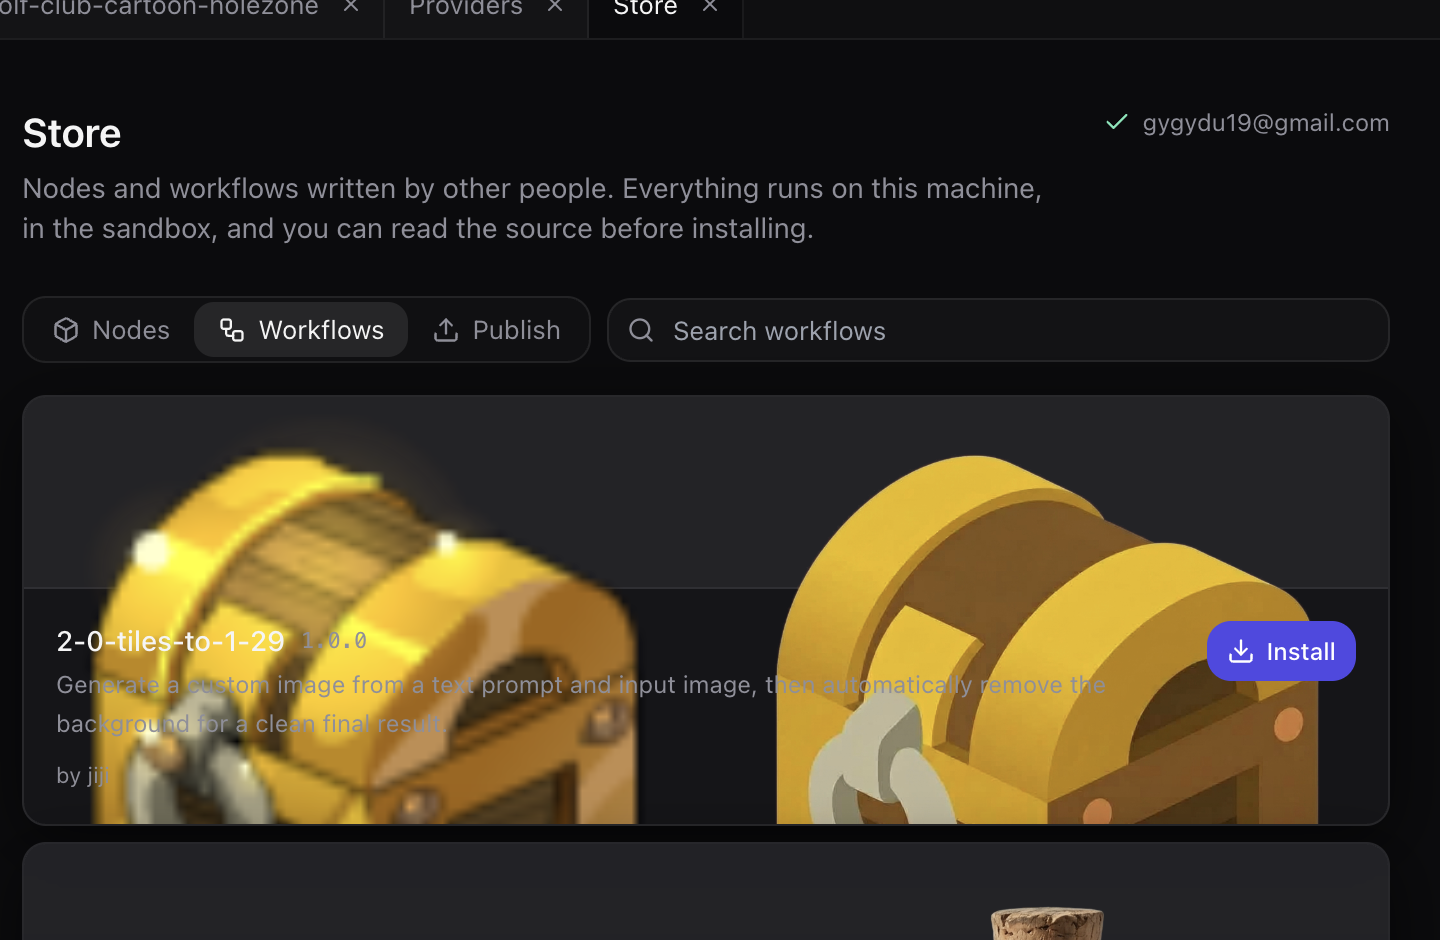
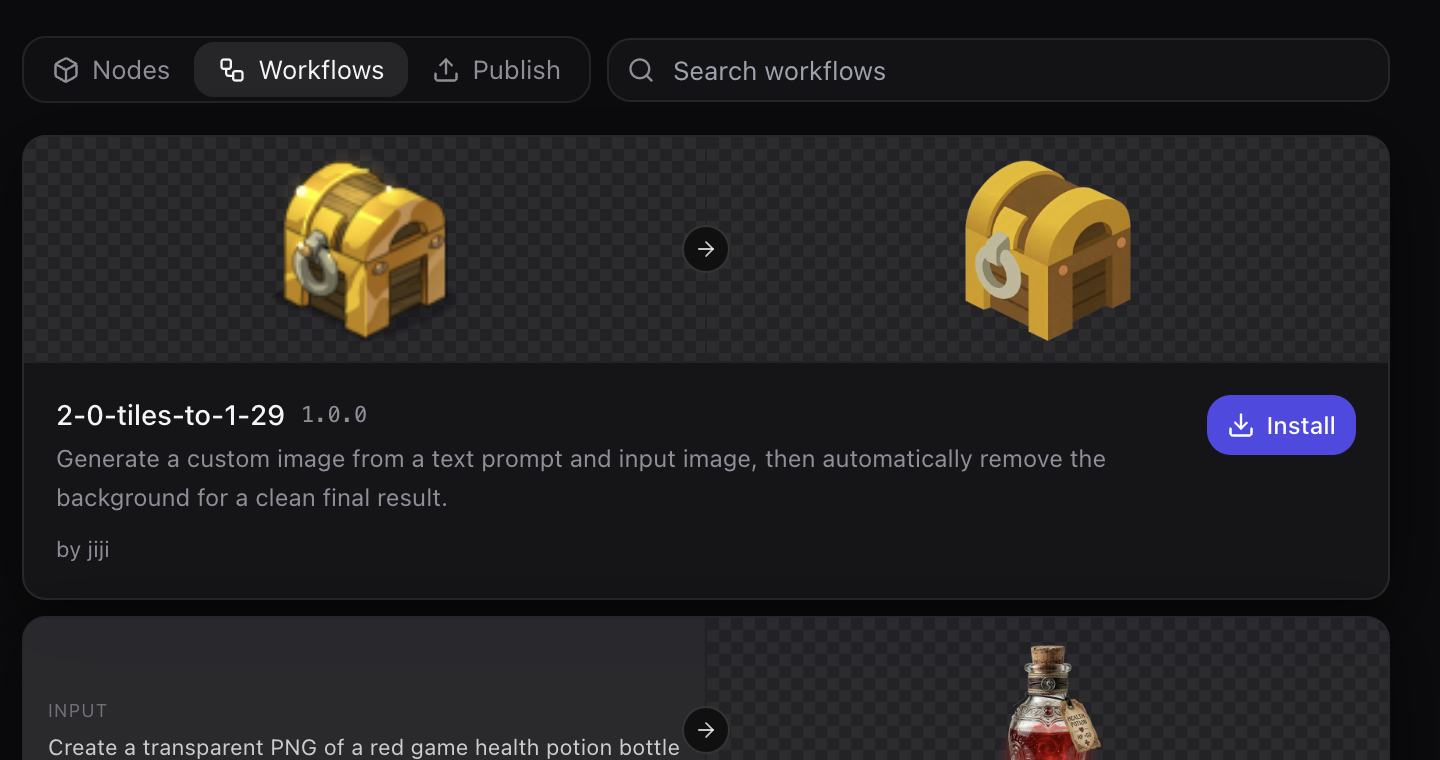
Add the store to the landing, and let one thumbnail serve both shells
A fifth section, because the store answers the question the others leave open:
where do I start. Each listing shows what went in and what came out, since a
name and a description do not tell you whether a workflow does what you want.

The thumbnail that draws those pairs now takes the shape it actually reads
rather than the web app's full preview type, so the desktop can call it instead
of keeping a copy. It had one, and the copy had drifted on the exact point this
file warns about two lines further down: a bare <img> in a grid row with no
definite height takes its intrinsic size. Measured in the running app — a 96
point container holding a 349 point image, overflowing a card with no clipping,
so the title and the description were being drawn on top of the picture. On a
bright preview they were unreadable.

diff --git a/src/components/WorkflowThumb.tsx b/src/components/WorkflowThumb.tsx
@@ -3,7 +3,24 @@
 import { ArrowRight, ImageOff } from "lucide-react"
 import { cn } from "@/lib/utils"
 import { mediaUrl } from "@/lib/api"
-import type { WorkflowPreview } from "@/lib/api"
+
+// Ce que cette vignette lit, et rien de plus.
+//
+// Déclaré ici plutôt que repris de `WorkflowPreview` pour que le desktop puisse
+// l'appeler avec le sien : les deux formes portent les mêmes champs, elles
+// diffèrent seulement par ce que la vignette n'utilise pas. Le desktop en avait
+// donc écrit une deuxième copie — et cette copie a dérivé exactement là où ce
+// fichier avertit deux lignes plus bas, dans `ImagePane` : sans hauteur de
+// rangée définie, l'image reprend sa taille intrinsèque, sort de la carte et se
+// pose sur le titre.
+export type ThumbPreview = {
+  input_kind: "text" | "image" | "none"
+  output_kind: "text" | "image" | "none"
+  input_text?: string
+  input_image?: string
+  output_text?: string
+  output_image?: string
+}
 
 // A workflow's thumbnail is one real pair from a finished run: what went in on
 // the left, what came out on the right. Publishing requires a complete run, so
@@ -63,7 +80,7 @@ function Pane({
   )
 }
 
-export function hasPreview(preview?: WorkflowPreview | null): preview is WorkflowPreview {
+export function hasPreview(preview?: ThumbPreview | null): preview is ThumbPreview {
   return Boolean(preview && (preview.input_kind !== "none" || preview.output_kind !== "none"))
 }
 
@@ -72,7 +89,7 @@ export function WorkflowThumb({
   className,
   fallback,
 }: {
-  preview?: WorkflowPreview | null
+  preview?: ThumbPreview | null
   className?: string
   fallback?: React.ReactNode
 }) {

diff --git a/src/components/FeatureSections.tsx b/src/components/FeatureSections.tsx
@@ -49,6 +49,17 @@ const FEATURES: Feature[] = [
     shot: { src: "/shots/agent.png", alt: "The agent panel, running the CLI installed on this machine", width: 720, height: 1664 },
   },
   {
+    eyebrow: "The store",
+    title: "Start from one that already ran.",
+    body:
+      "Workflows other people published, each shown as what went in and what came out — because a name and a description " +
+      "do not tell you whether it does what you want. Installing pulls the node packs it needs. They run on your machine, " +
+      "in the sandbox, and you can read the source before installing anything.",
+    shot: { src: "/shots/store.png", alt: "The store: published workflows, each with its input and its result", width: 1440, height: 760 },
+    link: { href: "/store", label: "Browse the store" },
+    flip: true,
+  },
+  {
     eyebrow: "Source control",
     title: "Git, beside the canvas.",
     body:
@@ -57,7 +68,6 @@ const FEATURES: Feature[] = [
       "in the same folder shows cannot disagree.",
     shot: { src: "/shots/git.png", alt: "The source control panel: a commit message, and the changed files", width: 520, height: 520 },
     narrow: true,
-    flip: true,
   },
 ]
 
